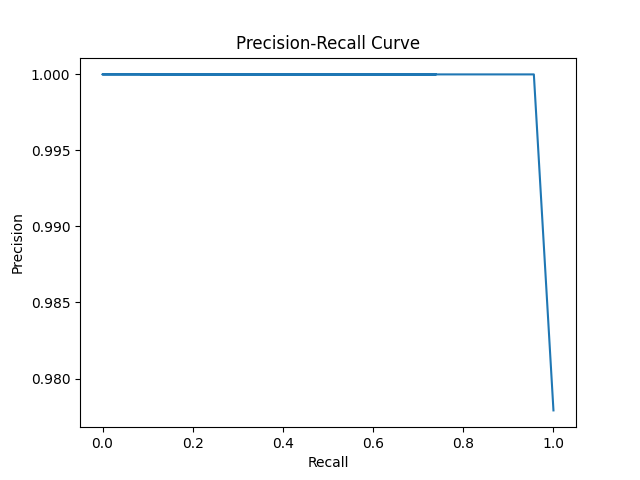
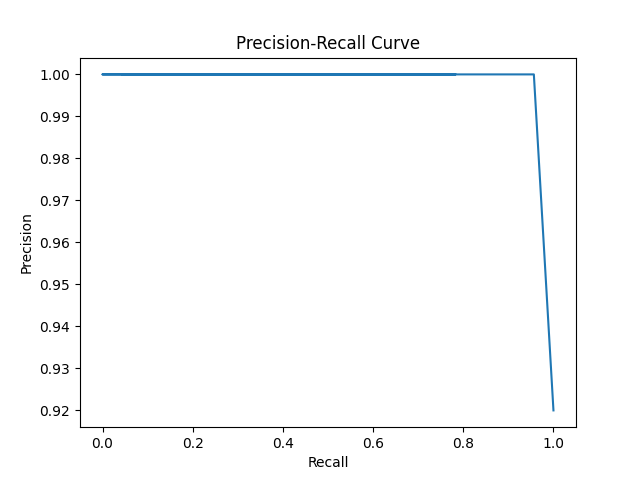
Testing ROC and PR

diff --git a/RF/Metrics_Graphs.py b/RF/Metrics_Graphs.py
@@ -29,29 +29,32 @@ def train(features, labels):
 
         #Form predictions
         y_pred=clf.predict_proba(X_test)[:,1]
-        #precision, recall, thresholds = metrics.precision_recall_curve(y_test, y_pred)
+        precision, recall, thresholds = metrics.precision_recall_curve(y_test, y_pred)
         fpr, tpr, thresholds = metrics.roc_curve(y_test, y_pred)
-        """for j in range(len(recall)):
+        print(precision)
+        for j in range(len(recall)):
             if recall[j] not in rp:
                 rp[recall[j]] = []
-                rp[recall[j]].append(precision[j])"""
+                rp[recall[j]].append(precision[j])
         for j in range(len(fpr)):
             if fpr[j] not in roc:
                 roc[fpr[j]] = []
             roc[fpr[j]].append(tpr[j])
 
-    """for num in list(rp.keys()):
-        rp[num] = statistics.mean(rp[num])"""
+    for num in list(rp.keys()):
+        rp[num] = statistics.mean(rp[num])
     for num in list(roc.keys()):
         roc[num] = statistics.mean(roc[num])
 
-    """
+    print(rp.values())
+  
     fig1 = plt.plot(list(rp.keys()), list(rp.values()))
     plt.xlabel("Recall")
     plt.ylabel("Precision")
     plt.title("Precision-Recall Curve")
-    plt.savefig("Precision_Recall.png")"""
+    plt.savefig("Precision_Recall.png")
 
+    plt.clf()
     fig2 = plt.plot(list(roc.keys()), list(roc.values()))
     plt.xlabel("False Positive Rate")
     plt.ylabel("True Positive Rate")

diff --git a/RF/TrainandTest.py b/RF/TrainandTest.py
@@ -31,7 +31,7 @@ recall = 0
 BAC = 0
 MAT = 0
 
-f = open('results_true_false_vals_struct.csv', 'w')
+f = open('results_true_false_vals.csv', 'w')
 f.write('Run,TN,FN,TP,FP' + "\n")
 
 for i in range(50):
@@ -49,5 +49,4 @@ print('Average Balanced: ' + str(BAC/50))
 print('Average Matthew: ' + str(mat/50))
 
 f.close()
-
 """
